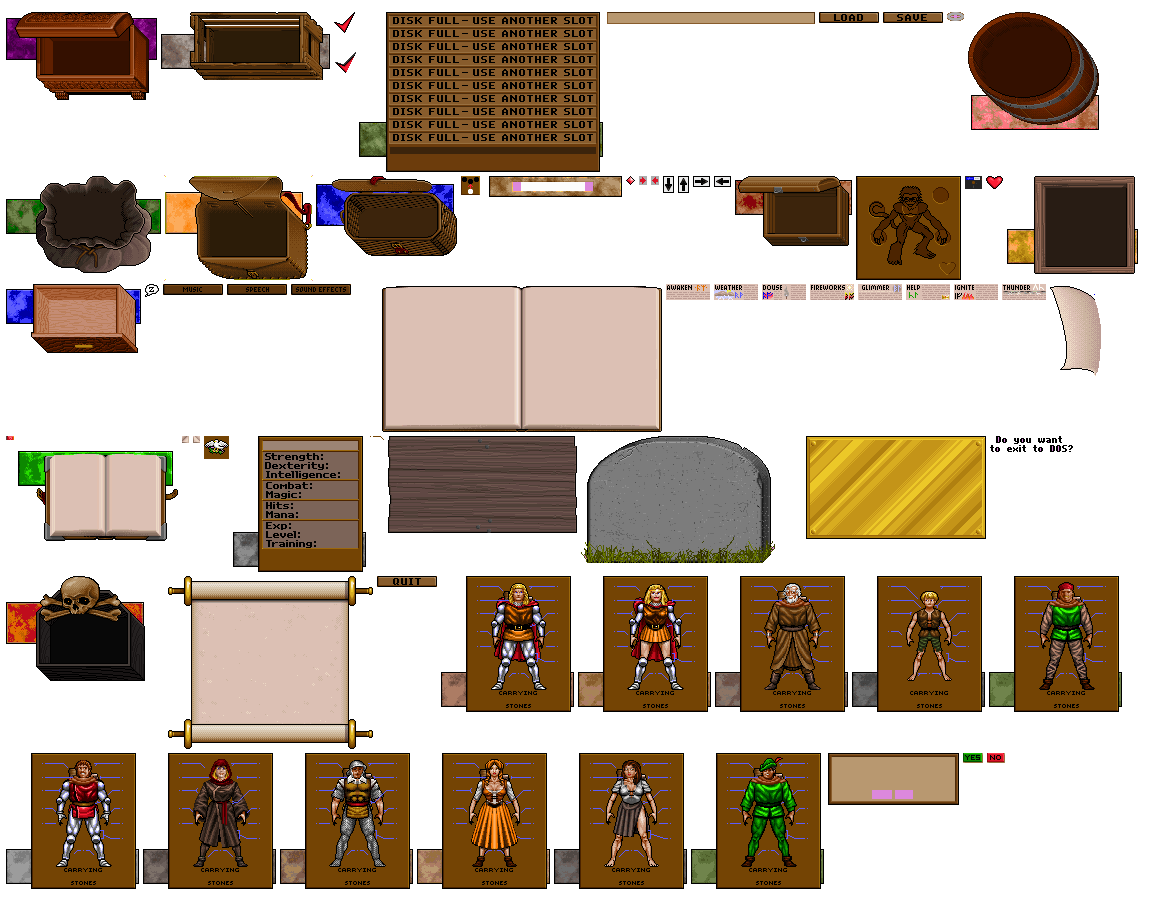
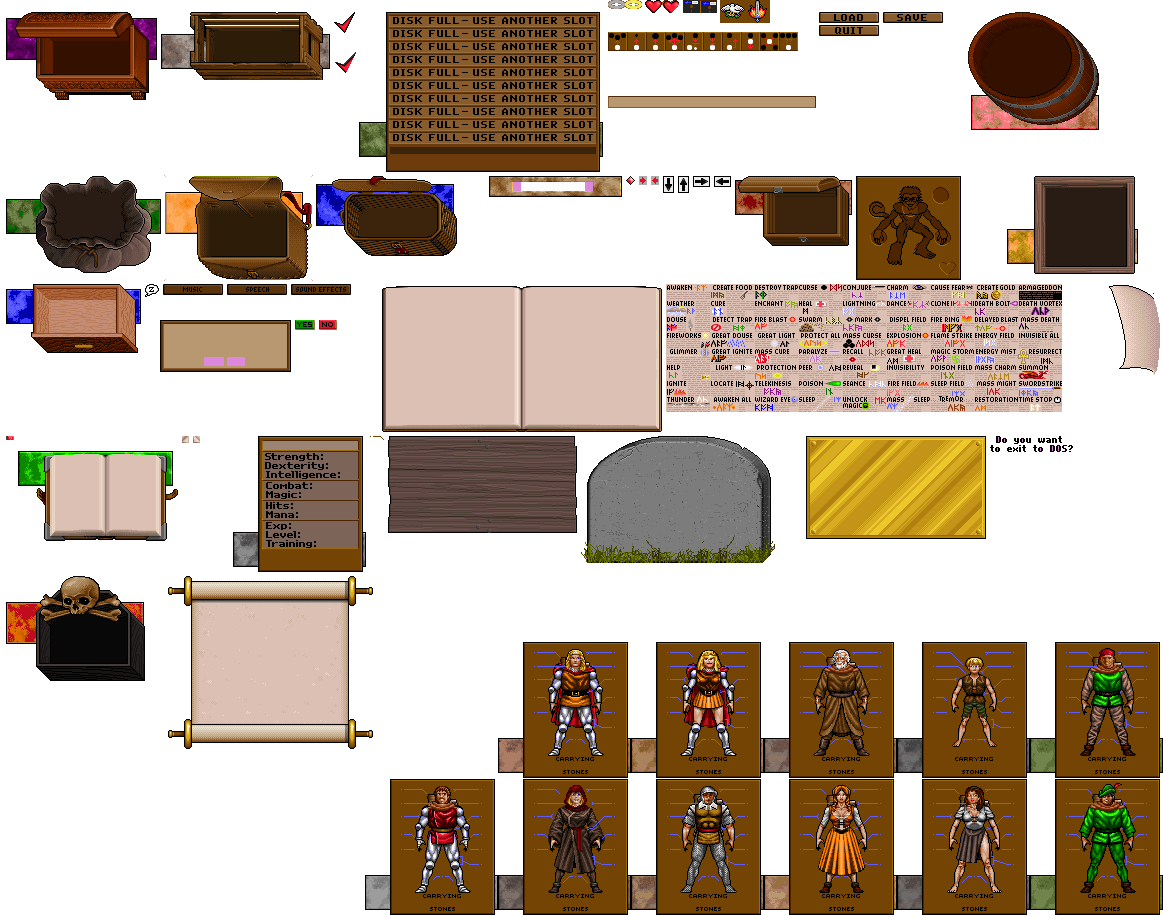
improving biggumps and paperdolls

diff --git a/Source/LoadingState.cpp b/Source/LoadingState.cpp
@@ -175,6 +175,7 @@ void LoadingState::UpdateLoading()
 		{
 			AddConsoleString(std::string("Loading sprites..."));
 			LoadSprites();
+			ExtractGumps();
 			m_loadingSprites = true;
 			return;
 		}
@@ -1299,6 +1300,201 @@ void LoadingState::LoadSprites()
 
 	Log("Sprites exported to Debug/Sprites/ folder");
 #endif
+}
+
+void LoadingState::ExtractGumps()
+{
+	std::string dataPath = g_Engine->m_EngineConfig.GetString("data_path");
+	std::string gumpsPath = dataPath + "/STATIC/GUMPS.VGA";
+
+	ifstream gumpsFile;
+	gumpsFile.open(gumpsPath.c_str(), ios::binary);
+
+	if (!gumpsFile.good())
+	{
+		Log("GUMPS.VGA not found at: " + gumpsPath);
+		return;
+	}
+
+	stringstream gumps;
+	gumps << gumpsFile.rdbuf();
+	gumpsFile.close();
+
+	vector<FLXEntryData> gumpEntryMap = ParseFLXHeader(gumps);
+
+	Log("Extracting " + std::to_string(gumpEntryMap.size()) + " gump shapes from GUMPS.VGA");
+
+	// Debug: Log first few entries to verify offsets
+	for (int i = 0; i < std::min(10, (int)gumpEntryMap.size()); ++i)
+	{
+		Log("  Gump " + std::to_string(i) + ": offset=" + std::to_string(gumpEntryMap[i].offset) +
+			" length=" + std::to_string(gumpEntryMap[i].length));
+	}
+
+	// Create Debug/Gumps directory
+	std::filesystem::create_directories("Debug/Gumps");
+
+	struct frameData
+	{
+		unsigned int fileOffset;
+		short W2;
+		short W1;
+		short H1;
+		short H2;
+		unsigned int width;
+		unsigned int height;
+		int xDrawOffset;
+		int yDrawOffset;
+	};
+
+	// Process each gump shape (same format as SHAPES.VGA)
+	for (int thisGump = 0; thisGump < gumpEntryMap.size(); ++thisGump)
+	{
+		if (gumpEntryMap[thisGump].offset == 0 && gumpEntryMap[thisGump].length == 0)
+		{
+			continue; // Empty entry
+		}
+
+		gumps.seekg(gumpEntryMap[thisGump].offset);
+		unsigned int headerStart = gumps.tellg();
+		unsigned int firstData = ReadU32(gumps);
+
+		// Check if RLE-encoded
+		if (firstData == gumpEntryMap[thisGump].length)
+		{
+			// Next four bytes tell length of the header
+			unsigned int headerLength = ReadU32(gumps);
+			unsigned int frameCount = ((headerLength - 4) / 4);
+
+			std::vector<frameData> frameOffsets;
+			frameOffsets.resize(frameCount);
+			frameOffsets[0].fileOffset = 0;
+
+			for (unsigned int i = 1; i < frameCount; ++i)
+			{
+				frameOffsets[i].fileOffset = ReadU32(gumps);
+			}
+
+			// Read each frame
+			for (unsigned int frameNum = 0; frameNum < frameCount; ++frameNum)
+			{
+				// Seek to the start of this frame's data
+				if (frameNum > 0)
+				{
+					gumps.seekg(headerStart + frameOffsets[frameNum].fileOffset);
+				}
+
+				frameOffsets[frameNum].W2 = ReadS16(gumps);
+				frameOffsets[frameNum].W1 = ReadS16(gumps);
+				frameOffsets[frameNum].H1 = ReadS16(gumps);
+				frameOffsets[frameNum].H2 = ReadS16(gumps);
+
+				frameOffsets[frameNum].height = frameOffsets[frameNum].H1 + frameOffsets[frameNum].H2 + 1;
+				frameOffsets[frameNum].width = frameOffsets[frameNum].W2 + frameOffsets[frameNum].W1 + 1;
+				frameOffsets[frameNum].xDrawOffset = frameOffsets[frameNum].W2;
+				frameOffsets[frameNum].yDrawOffset = frameOffsets[frameNum].H2;
+
+				if (frameOffsets[frameNum].width > 1024 || frameOffsets[frameNum].height > 1024 || frameOffsets[frameNum].width == 0 || frameOffsets[frameNum].height == 0)
+				{
+					Log("Invalid gump dimensions: " + std::to_string(frameOffsets[frameNum].width) + "x" + std::to_string(frameOffsets[frameNum].height));
+					continue;
+				}
+
+				// Create image for this frame
+				Image frameImage = GenImageColor(frameOffsets[frameNum].width, frameOffsets[frameNum].height, BLANK);
+
+				// Decode gump RLE data (Exult format with 2-byte scanline headers)
+				while (true)
+				{
+					// Read 2-byte scanline length
+					unsigned short scanlen = ReadU16(gumps);
+
+					if (scanlen == 0)
+					{
+						// End of shape
+						break;
+					}
+
+					// Extract encoded flag and length
+					bool encoded = (scanlen & 1) != 0;
+					scanlen = scanlen >> 1;
+
+					// Read scanline position (2 bytes each)
+					short scanx = ReadS16(gumps);
+					short scany = ReadS16(gumps);
+
+					// Adjust coordinates based on frame offsets (same as SHAPES.VGA)
+					scanx += frameOffsets[frameNum].width - frameOffsets[frameNum].xDrawOffset - 1;
+					scany += frameOffsets[frameNum].height - frameOffsets[frameNum].yDrawOffset - 1;
+
+					// Validate scanline position
+					if (scany < 0 || scany >= (int)frameOffsets[frameNum].height)
+						continue;
+
+					if (encoded)
+					{
+						// RLE encoded scanline
+						int x = scanx;
+
+						while (scanlen > 0)
+						{
+							unsigned char bcnt = ReadU8(gumps);
+
+							bool repeat = (bcnt & 1) != 0;
+							bcnt = bcnt >> 1;
+
+							if (repeat)
+							{
+								// Repeat single color
+								unsigned char col = ReadU8(gumps);
+	
+								for (int i = 0; i < bcnt && x >= 0 && x < (int)frameOffsets[frameNum].width; ++i, ++x)
+								{
+									Color color = m_palettes[0][col];
+									ImageDrawPixel(&frameImage, x, scany, color);
+								}
+							}
+							else
+							{
+								// Copy literal pixels
+								for (int i = 0; i < bcnt && x >= 0 && x < (int)frameOffsets[frameNum].width; ++i, ++x)
+								{
+									unsigned char col = ReadU8(gumps);
+		
+									Color color = m_palettes[0][col];
+									ImageDrawPixel(&frameImage, x, scany, color);
+								}
+							}
+
+						// Track remaining length like Exult does
+						scanlen -= bcnt;
+					}
+				}
+				else
+					{
+						// Unencoded scanline - copy pixels directly
+						int x = scanx;
+						for (int i = 0; i < scanlen && x >= 0 && x < (int)frameOffsets[frameNum].width; ++i, ++x)
+						{
+							unsigned char col = ReadU8(gumps);
+							Color color = m_palettes[0][col];
+							ImageDrawPixel(&frameImage, x, scany, color);
+						}
+					}
+				}
+
+				// Export frame as PNG
+				std::string filename = "Debug/Gumps/gump_" + std::to_string(thisGump) + "_frame_" + std::to_string(frameNum) + ".png";
+				ExportImage(frameImage, filename.c_str());
+
+				UnloadImage(frameImage);
+			}
+
+			Log("Extracted gump " + std::to_string(thisGump) + " with " + std::to_string(frameCount) + " frames");
+		}
+	}
+
+	Log("Gumps extracted to Debug/Gumps/ folder");
 }
 
 void LoadingState::LoadModels()

diff --git a/Source/U7GumpPaperdoll.h b/Source/U7GumpPaperdoll.h
@@ -8,6 +8,8 @@
 #include "Geist/Gui.h"
 #include "Geist/GuiElements.h"
 
+static constexpr const char* GUMPS_TEXTURE_PATH = "Images/GUI/biggumps.png";
+
 enum class PaperdollType
 {
 	PAPERDOLL_MALE_AVATAR = 0,
@@ -38,6 +40,7 @@ enum class EquipmentSlot
 	SLOT_LEFT_RING,
 	SLOT_RIGHT_RING,
 	SLOT_BELT,
+	SLOT_BACKPACK,
 	SLOT_COUNT
 };
 
@@ -55,18 +58,19 @@ public:
 	// TODO: Measure actual rectangles from biggumps.png
 	static constexpr Rectangle m_slotRects[static_cast<int>(EquipmentSlot::SLOT_COUNT)] =
 	{
-		{ 0, 0, 16, 16 },  // SLOT_HEAD
-		{ 0, 0, 16, 16 },  // SLOT_NECK
-		{ 0, 0, 16, 16 },  // SLOT_TORSO
-		{ 0, 0, 16, 16 },  // SLOT_LEGS
-		{ 0, 0, 16, 16 },  // SLOT_HANDS
-		{ 0, 0, 16, 16 },  // SLOT_FEET
-		{ 0, 0, 16, 16 },  // SLOT_LEFT_HAND
-		{ 0, 0, 16, 16 },  // SLOT_RIGHT_HAND
-		{ 0, 0, 16, 16 },  // SLOT_AMMO
-		{ 0, 0, 16, 16 },  // SLOT_LEFT_RING
-		{ 0, 0, 16, 16 },  // SLOT_RIGHT_RING
-		{ 0, 0, 16, 16 }   // SLOT_BELT
+		{ 170, 8, 16, 16 },    // SLOT_HEAD
+		{ 45, 31, 16, 16 },    // SLOT_NECK
+		{ 45, 50, 16, 16 },    // SLOT_TORSO
+		{ 170, 120, 16, 16 },  // SLOT_LEGS
+		{ 170, 99, 16, 16 },   // SLOT_HANDS
+		{ 110, 145, 16, 16 },  // SLOT_FEET
+		{ 170, 76, 16, 16 },   // SLOT_LEFT_HAND
+		{ 45, 76, 16, 16 },    // SLOT_RIGHT_HAND
+		{ 45, 8, 16, 16 },     // SLOT_AMMO
+		{ 170, 99, 16, 16 },   // SLOT_LEFT_RING
+		{ 45, 101, 16, 16 },   // SLOT_RIGHT_RING
+		{ 170, 50, 16, 16 },   // SLOT_BELT
+		{ 170, 30, 16, 16 }    // SLOT_BACKPACK (TODO: Set correct position)
 	};
 
 	// Static data array - one entry per paperdoll type
@@ -74,27 +78,27 @@ public:
 	static constexpr PaperdollData m_paperdollData[] =
 	{
 		// PAPERDOLL_MALE_AVATAR
-		{ { 661, 863 }, { 200, 205 }, PaperdollType::PAPERDOLL_MALE_AVATAR },
+		{ { 746, 963 }, { 200, 205 }, PaperdollType::PAPERDOLL_MALE_AVATAR },
 		// PAPERDOLL_FEMALE_AVATAR
-		{ { 866, 863 }, { 200, 205 }, PaperdollType::PAPERDOLL_FEMALE_AVATAR },
+		{ { 946, 963 }, { 200, 205 }, PaperdollType::PAPERDOLL_FEMALE_AVATAR },
 		// PAPERDOLL_IOLO
-		{ { 1072, 863 }, { 200, 205 }, PaperdollType::PAPERDOLL_IOLO },
+		{ { 1146, 963 }, { 200, 205 }, PaperdollType::PAPERDOLL_IOLO },
 		// PAPERDOLL_SHAMINO
-		{ { 1483, 863 }, { 200, 205 }, PaperdollType::PAPERDOLL_SHAMINO },
+		{ { 1546, 963 }, { 200, 205 }, PaperdollType::PAPERDOLL_SHAMINO },
 		// PAPERDOLL_DUPRE
-		{ { 8, 1128 }, { 200, 205 }, PaperdollType::PAPERDOLL_DUPRE },
+		{ { 546, 1168 }, { 200, 205 }, PaperdollType::PAPERDOLL_DUPRE },
 		// PAPERDOLL_SPARK
-		{ { 1277, 863 }, { 200, 205 }, PaperdollType::PAPERDOLL_SPARK },
+		{ { 1346, 963 }, { 200, 205 }, PaperdollType::PAPERDOLL_SPARK },
 		// PAPERDOLL_SENTRI
-		{ { 420, 1128 }, { 200, 205 }, PaperdollType::PAPERDOLL_SENTRI },
+		{ { 946, 1168 }, { 200, 205 }, PaperdollType::PAPERDOLL_SENTRI },
 		// PAPERDOLL_TSERAMED
-		{ { 1038, 1128 }, { 200, 205 }, PaperdollType::PAPERDOLL_TSERAMED },
+		{ { 1546, 1168 }, { 200, 205 }, PaperdollType::PAPERDOLL_TSERAMED },
 		// PAPERDOLL_JAANA
-		{ { 214, 1128 }, { 200, 205 }, PaperdollType::PAPERDOLL_JAANA },
+		{ { 746, 1168 }, { 200, 205 }, PaperdollType::PAPERDOLL_JAANA },
 		// PAPERDOLL_KATRINA
-		{ { 832, 1128 }, { 200, 205 }, PaperdollType::PAPERDOLL_KATRINA },
+		{ { 1346, 1168 }, { 200, 205 }, PaperdollType::PAPERDOLL_KATRINA },
 		// PAPERDOLL_JULIA
-		{ { 626, 1128 }, { 200, 205 }, PaperdollType::PAPERDOLL_JULIA }
+		{ { 1146, 1168 }, { 200, 205 }, PaperdollType::PAPERDOLL_JULIA }
 	};
 
 	GumpPaperdoll();

diff --git a/Source/U7GumpPaperdoll.cpp b/Source/U7GumpPaperdoll.cpp
@@ -87,7 +87,7 @@ void GumpPaperdoll::Setup(int npcId)
 	std::filesystem::create_directories("Debug/Paperdolls");
 
 	// Load the biggumps texture
-	Texture* biggumps = g_ResourceManager->GetTexture("Images/GUI/biggumps.png");
+	Texture* biggumps = g_ResourceManager->GetTexture(GUMPS_TEXTURE_PATH);
 	if (biggumps)
 	{
 		Image paperdollImage = LoadImageFromTexture(*biggumps);
@@ -154,7 +154,7 @@ void GumpPaperdoll::OnEnter()
 
 	// Add paperdoll background sprite
 	m_gui.AddSprite(1000, 0, 0,
-		std::make_shared<Sprite>(g_ResourceManager->GetTexture("Images/GUI/biggumps.png", false),
+		std::make_shared<Sprite>(g_ResourceManager->GetTexture(GUMPS_TEXTURE_PATH, false),
 			m_data.m_texturePos.x, m_data.m_texturePos.y,
 			m_data.m_textureSize.x, m_data.m_textureSize.y),
 		1, 1, Color{255, 255, 255, 255});
@@ -176,7 +176,7 @@ void GumpPaperdoll::OnEnter()
 	};
 
 	// Store texture reference for pixel-perfect collision
-	m_backgroundTexture = g_ResourceManager->GetTexture("Images/GUI/biggumps.png");
+	m_backgroundTexture = g_ResourceManager->GetTexture(GUMPS_TEXTURE_PATH);
 
 	// Debug: Log GUI bounds for collision detection
 	Log("GumpPaperdoll::OnEnter - GUI bounds: pos(" + std::to_string(m_gui.m_Pos.x) + ", " + std::to_string(m_gui.m_Pos.y) +
@@ -238,6 +238,24 @@ void GumpPaperdoll::Draw()
 				}
 			}
 		}
+	}
+
+	// Debug: Draw red boxes around each slot rect
+	for (int i = 0; i < static_cast<int>(EquipmentSlot::SLOT_COUNT); i++)
+	{
+		Rectangle slotRect = m_slotRects[i];
+		Rectangle debugRect = {
+			m_gui.m_Pos.x + slotRect.x,
+			m_gui.m_Pos.y + slotRect.y,
+			slotRect.width,
+			slotRect.height
+		};
+		DrawRectangleLines(
+			static_cast<int>(debugRect.x),
+			static_cast<int>(debugRect.y),
+			static_cast<int>(debugRect.width),
+			static_cast<int>(debugRect.height),
+			RED);
 	}
 }
 

diff --git a/Source/LoadingState.h b/Source/LoadingState.h
@@ -29,6 +29,7 @@ public:
    void LoadMap();
    void CreateShapeTable();
    void LoadSprites();
+   void ExtractGumps();
    void CreateObjectTable();
    void LoadIFIX();
    void ParseIREGFile(std::stringstream& ireg, int superchunkx, int superchunky);
